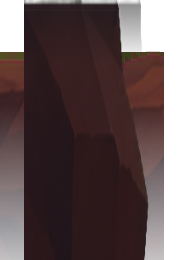
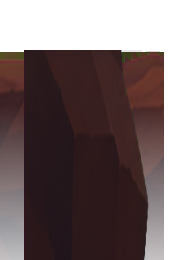
[arte] Publica céu DF200 e retoque dos cantos DF205

Changed region(s): [[0.1111, 0.0, 0.8056, 0.2154]]

diff --git a/colaboracao/entregas/DF200/ENTREGA.md b/colaboracao/entregas/DF200/ENTREGA.md
@@ -1,0 +1,34 @@
+# DF200 — Céu do crepúsculo de tempestade
+
+Arte aprovada por João Marcelo em 24/11/2026.
+
+| Arquivo | Quadro | Dimensões | Função |
+|---|---:|---:|---|
+| DF200_ceu.png | 1 | 2.560 × 1.440 | Fundo distante opaco para as Dunas e o vão do Salão, atrás da DF201 e da DF205. |
+| DF200_cena.png | 2 montagens + 2 referências | 2.560 × 1.590 | Dois painéis de 1.280 × 720 com a DF205 e o Daymon a 91 px. Capturas proporcionais de Hélix e Verdâmia abaixo. |
+
+## Âncora, escala e valores
+
+Imagem inteira, sem repetição ou espelhamento. Origem superior esquerda (0, 0), centro geométrico (1.280, 720). Centros de câmera demonstrados em x 1.120 e x 1.420, com fonte vertical y 210–1.230, escala de mundo 0,645 e projeção aproximada de 0,71 na tela. A montagem corta os 2 px excedentes em cada extremidade vertical após redução proporcional. Parallax 0,06, a aplicar no Godot.
+
+Céu de tempestade em azuis-marinho de referência #0F1422 e #253045. Faixas de poeira com referência #3A2929, #59403A e #493736, em misturas dessaturadas. O disco é de ferrugem velada. Âmbar #EFAA55 reservado à iluminação funcional. Sem chão e sem construções no asset de céu.
+
+| Região do PNG (y inicial inclusivo, y final exclusivo) | Y′ média | Meta |
+|---|---:|---:|
+| 210–550 | 0,099 | ≤ 0,110 |
+| 550–900 | 0,131 | 0,120–0,150 |
+| 900–1.230 | 0,123 | 0,110–0,140 |
+
+Y′ sRGB ponderado (0,2126 R′ + 0,7152 G′ + 0,0722 B′). Pico no sol de 0,235. A área acima de 0,25 é 0,00%. O centro horizontal do disco fica em x ≈ 1.280 e o centro aparente perto de y 742. A parte visível tem largura de ~100 px, medida no recorte do disco pelo limiar Y′ ≥ 0,195, abaixo do limite de 120 px.
+
+| Montagem | Y′ média sem faixa de HUD | Y′ do terço superior (linhas 130–239) | Borda do Daymon com ΔY′ ≥ 0,10 |
+|---|---:|---:|---:|
+| Dunas, x 1.120 | 0,126 | 0,105 | 83,9% |
+| Vão do Salão, x 1.420 | 0,128 | 0,104 | 83,0% |
+
+Perfil oficial do Daymon com a luz de preenchimento simulada da DF00 v2. As montagens são estáticas, com o terreno e as passarelas DF205. A DF201 ainda depende da produção de arte. Parallax, enquadramento na câmera real e separação em movimento ficam para a validação no Godot.
+
+## SHA-256
+
[2 lines of base64/hex data omitted]

diff --git a/colaboracao/STATUS.md b/colaboracao/STATUS.md
@@ -32,7 +32,8 @@ Atualizado pelos agentes. Leia `PROTOCOLO.md` e `FLUXO_AUTOMATICO.md` antes de c
 |---|---|---|---|---|---|
 | DF00 | Prancha de referência do Deserto (paleta, materiais, amostras) | ENTREGUE (aprovado pelo responsável) | [DF](pedidos/DF_deserto_ferrugem.md) | — | — |
 | DF00 v2 | Prancha de referência do Deserto pela DA-03 | ENTREGUE | [DF](pedidos/DF_deserto_ferrugem.md) | — | [Prancha, comparação e aferição](entregas/DF00/ENTREGA_v2.md) |
-| DF205 | Terreno do Deserto de Ferrugem | ENTREGUE | [DF](pedidos/DF_refacao_cena.md) | — | [Peças, encaixes e comparação](entregas/DF205/ENTREGA.md) |
+| DF205 | Terreno do Deserto de Ferrugem | ENTREGUE (retoque dos cantos ENTREGUE) | [DF](pedidos/DF_refacao_cena.md) | — | [Peças, encaixes e comparação](entregas/DF205/ENTREGA.md) |
+| DF200 | Céu do crepúsculo de tempestade | ENTREGUE | [DF](pedidos/DF_refacao_cena.md) | — | [Céu, comparação e aferição](entregas/DF200/ENTREGA.md) |
 | DF01 | Ficha do Robô e do Drone do deserto | ENTREGUE (aprovado pelo responsável) | [DF](pedidos/DF_deserto_ferrugem.md) | — | — |
 | DF10–DF12 | Fundos das Dunas em parallax | ENTREGUE | [DF](pedidos/DF_deserto_ferrugem.md) | — | — |
 | DF20–DF28 | Terreno, paredes, piso, esteira, trilho e cabo | ENTREGUE | [DF](pedidos/DF_deserto_ferrugem.md) | — | — |

diff --git a/colaboracao/entregas/DF205/ENTREGA.md b/colaboracao/entregas/DF205/ENTREGA.md
@@ -89,3 +89,10 @@ O terço superior e a média da cena usam o recorte sem HUD da DA-03. Os pontos 
[3 lines of base64/hex data omitted]
+
+## Retoque dos cantos de areia
+
+Aprovado por João Marcelo em 24/11/2026. Opacidade média em y 8–48: 0,00% nos dois cantos. Apoio em y 50 e pintura abaixo do apoio preservados. As remontagens usaram as emendas em x 780 e x 1.180. A validação no Godot usa o sprite inteiro no pivô original.
+
[2 lines of base64/hex data omitted]
